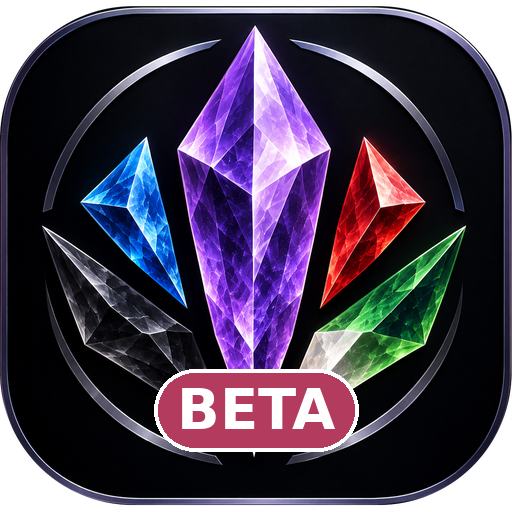
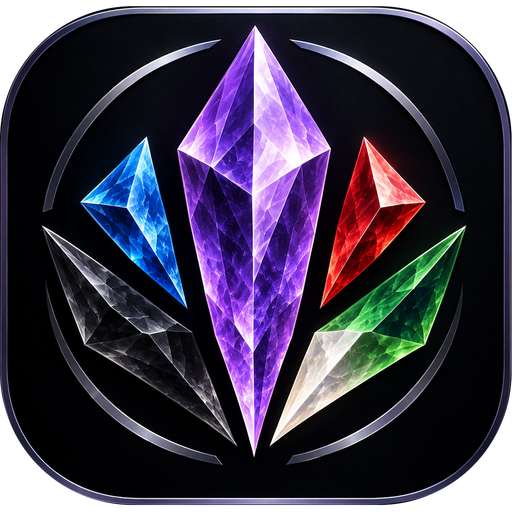
2.0.1: remove Beta badge

Changed region(s): [[0.2812, 0.7188, 0.7188, 0.9062]]

diff --git a/js/app.js b/js/app.js
@@ -244,7 +244,7 @@ function viewArchSetup() {
 }
 function viewHome() {
   const p = S.profile || {}, live = pickerDecks();
-  let h = '<header class="top"><span class="brand"><img src="' + LOGO + '" alt=""><h1>Salt Mine <span class="beta">Beta</span></h1></span><button class="icon gear" data-act="settings" aria-label="Settings">' + ICON.gear + '</button></header>';
+  let h = '<header class="top"><span class="brand"><img src="' + LOGO + '" alt=""><h1>The Salt Mine</h1></span><button class="icon gear" data-act="settings" aria-label="Settings">' + ICON.gear + '</button></header>';
   h += '<section class="homecard hello">' + avatar(p, S.user) + '<div><b class="cond" style="font-size:24px">Hi, ' + esc(p.name || 'there') + '</b>' +
     '<p class="muted" style="margin:2px 0 0">Friend code <b class="code sm">' + esc(p.code || '') + '</b>' + (D.isOwner(S.user && S.user.uid) ? ' <span class="pill">Owner</span>' : '') + '</p></div></section>';
   h += updateHtml() + G.homeGameHtml() + SH.homeInboxHtml();
@@ -254,7 +254,7 @@ function viewHome() {
     '<button class="navbtn" data-act="stats">' + ICON.stats + 'Stats<small class="muted">' + esc(ST.statsBlurb()) + '</small></button>' +
     '<button class="navbtn" data-act="groups">' + ICON.people + 'Playgroups<small class="muted">' + esc(GR.homeBlurb()) + '</small>' +
     (GR.waitingCount() ? '<span class="dot" aria-hidden="true"></span>' : '') + '</button></div>';
-  h += '<p class="muted" style="margin-top:14px;text-align:center"><small>Beta, part 6 of 6. Add playgroup-mates to your games and they get them to accept. Bring classic games over in Settings > Data. Your classic Salt Mine keeps working as usual.</small></p>';
+  h += '<p class="muted" style="margin-top:14px;text-align:center"><small>Add playgroup-mates to your games and they get them to accept. Bring classic games over in Settings > Data. Your classic Salt Mine keeps working as usual.</small></p>';
   if (!navigator.onLine) h += '<p class="muted" style="margin-top:6px;text-align:center"><small>Offline. Changes save on this device and sync when you\u2019re back online.</small></p>';
   return h;
 }

diff --git a/css/beta.css b/css/beta.css
@@ -1,5 +1,4 @@
 /* Additions for The Salt Mine 2.0, on top of the classic styles in app.css */
-.brand .beta { font-size: .55em; vertical-align: middle; padding: 2px 8px; border-radius: 999px; background: var(--accent-bg, var(--accent)); color: var(--accent-ink); font-family: system-ui, sans-serif; font-weight: 700; letter-spacing: .02em; }
 .hello { display: flex; align-items: center; gap: 14px; }
 .avatar { flex: none; width: 56px; height: 56px; border-radius: 50%; object-fit: cover; background: var(--accent-soft); color: var(--accent); display: inline-flex; align-items: center; justify-content: center; font-weight: 700; font-size: 24px; }
 .code { font-family: ui-monospace, "SF Mono", Menlo, Consolas, monospace; font-size: 22px; letter-spacing: .02em; display: block; margin-top: 4px; }

diff --git a/sw.js b/sw.js
@@ -1,6 +1,6 @@
 // Keeps The Salt Mine's own files on the device so it opens without a connection.
 // Your data is handled separately by Firebase's offline copy.
-const CACHE = 'smb-2.0.0';
+const CACHE = 'smb-2.0.1';
 const SHELL = ['./', 'index.html', 'css/app.css', 'css/beta.css', 'js/app.js', 'js/util.js', 'js/data.js', 'js/archidekt.js', 'js/config.js',
   'js/state.js', 'js/game.js', 'js/gameui.js', 'js/commanders.js', 'js/lifecounter.js', 'js/stats.js', 'js/importer.js', 'js/xlsx.js', 'js/groups.js', 'js/vendor/qrcode.js', 'js/shared.js', 'js/owner.js', 'js/help.js', 'js/changes.js', 'js/account.js',
   'manifest.webmanifest', 'icons/icon-192.png', 'icons/icon-512.png', 'icons/favicon.png', 'icons/apple-touch-icon.png'];

diff --git a/js/changes.js b/js/changes.js
@@ -4,6 +4,8 @@ import { esc } from './util.js';
 import { APP_VERSION } from './config.js';
 
 export const VERSIONS = [
+  { v: '2.0.1', title: 'No more Beta badge', items: [
+    ['Removed', 'The Beta badge on the home screen header and the app icon.']] },
   { v: '2.0.0', title: 'The Salt Mine', items: [
     ['Changed', 'The app is now called The Salt Mine, and it lives at a new, shorter address. Old links and home-screen icons forward to it.'],
     ['Changed', 'Out of beta: version 2.0.0.']] },

diff --git a/js/config.js b/js/config.js
@@ -1,6 +1,6 @@
 // The Salt Mine settings. None of this is secret: the Firebase config only identifies the project,
 // and the database rules decide who can read what.
-export const APP_VERSION = '2.0.0';
+export const APP_VERSION = '2.0.1';
 
 export const firebaseConfig = {
   apiKey: 'AIzaSyCIbwINcmHqM8cPdj_jpdQ9HzZFCL312S8',
